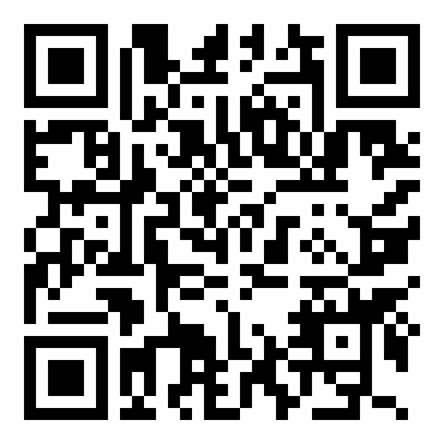
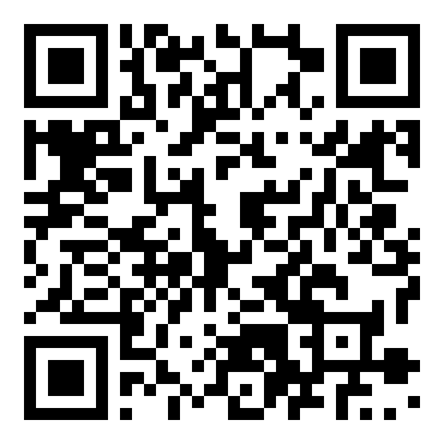
update: 下载版本更新至 v3.10.11

Changed region(s): [[0.0293, 0.0293, 0.9662, 0.9662]]

diff --git a/index.html b/index.html
@@ -20,7 +20,7 @@
   imagesrcset="assets/img/hero-green-800.webp 800w, assets/img/hero-green.webp 1600w"
   imagesizes="(max-width: 767px) calc(100vw - 32px), 640px">
 <script type="application/ld+json">
-{"@context":"https://schema.org","@type":"SoftwareApplication","name":"护花使者","operatingSystem":"Android 8.0+","applicationCategory":"MobileApplication","softwareVersion":"v3.10.10","fileSize":"85.9MB","downloadUrl":"http://121.199.75.235:8080/app/huhuashizhe_v3.10.10.apk","description":"护花使者把 1 kHz 飞控、5 MP 视觉和 39 类病虫害模型装进一架植保无人机。","offers":{"@type":"Offer","price":"0","priceCurrency":"CNY"}}
+{"@context":"https://schema.org","@type":"SoftwareApplication","name":"护花使者","operatingSystem":"Android 8.0+","applicationCategory":"MobileApplication","softwareVersion":"v3.10.11","fileSize":"85.9MB","downloadUrl":"http://121.199.75.235:8080/app/huhuashizhe_v3.10.11.apk","description":"护花使者把 1 kHz 飞控、5 MP 视觉和 39 类病虫害模型装进一架植保无人机。","offers":{"@type":"Offer","price":"0","priceCurrency":"CNY"}}
 </script>
 <style>
 :root {
@@ -490,7 +490,7 @@ html.js .result-card.is-in .result-bar i { width: var(--w); }
         </span>
         护花使者
       </a>
-      <span class="nav__ver">v3.10.10</span>
+      <span class="nav__ver">v3.10.11</span>
     </div>
     <nav class="nav__links" aria-label="主导航">
       <a class="nav__link" href="#problem">问题</a>
@@ -500,7 +500,7 @@ html.js .result-card.is-in .result-bar i { width: var(--w); }
       <a class="nav__link" href="#app">App</a>
       <a class="nav__link" href="#progress">进展</a>
     </nav>
-    <a class="btn btn--primary btn--small" href="http://121.199.75.235:8080/app/huhuashizhe_v3.10.10.apk" download>下载 App
+    <a class="btn btn--primary btn--small" href="http://121.199.75.235:8080/app/huhuashizhe_v3.10.11.apk" download>下载 App
       <svg viewBox="0 0 14 14" fill="none" aria-hidden="true"><path d="M7 1.5v7M4.2 6l2.8 3 2.8-3M2 11.5h10" stroke="currentColor" stroke-width="1.3" stroke-linecap="round" stroke-linejoin="round"/></svg>
     </a>
     <button class="nav__toggle" type="button" aria-expanded="false" aria-controls="mobile-menu" aria-label="打开菜单">
@@ -515,7 +515,7 @@ html.js .result-card.is-in .result-bar i { width: var(--w); }
       <a class="nav__link" href="#hardware" style="padding:12px 0;">硬件</a>
       <a class="nav__link" href="#app" style="padding:12px 0;">App</a>
       <a class="nav__link" href="#progress" style="padding:12px 0;">进展</a>
-      <a class="btn btn--primary" href="http://121.199.75.235:8080/app/huhuashizhe_v3.10.10.apk" download style="margin-top:12px;">下载 Android App</a>
+      <a class="btn btn--primary" href="http://121.199.75.235:8080/app/huhuashizhe_v3.10.11.apk" download style="margin-top:12px;">下载 Android App</a>
     </nav>
   </div>
 </header>
@@ -530,13 +530,13 @@ html.js .result-card.is-in .result-bar i { width: var(--w); }
         <h1 id="hero-h" data-reveal style="--d:.08s">让每一片叶子，<br><em>都被看见。</em></h1>
         <p class="hero__lead" data-reveal style="--d:.16s">护花使者把 1 kHz 飞控、5 MP 视觉和 39 类病虫害模型装进一架植保无人机。发现、判断、喷洒，在同一次飞行里完成。</p>
         <div class="hero__actions" data-reveal style="--d:.24s">
-          <a class="btn btn--primary" href="http://121.199.75.235:8080/app/huhuashizhe_v3.10.10.apk" download>下载 Android App
+          <a class="btn btn--primary" href="http://121.199.75.235:8080/app/huhuashizhe_v3.10.11.apk" download>下载 Android App
             <svg viewBox="0 0 14 14" fill="none" aria-hidden="true"><path d="M7 1.5v7M4.2 6l2.8 3 2.8-3M2 11.5h10" stroke="currentColor" stroke-width="1.3" stroke-linecap="round" stroke-linejoin="round"/></svg>
           </a>
           <a class="btn btn--ghost" href="#system">看它如何工作</a>
         </div>
         <div class="hero__meta" data-reveal style="--d:.3s">
-          <span>版本 <b>v3.10.10</b></span><span>大小 <b>85.9 MB</b></span><span>系统 <b>Android 8.0+</b></span>
+          <span>版本 <b>v3.10.11</b></span><span>大小 <b>85.9 MB</b></span><span>系统 <b>Android 8.0+</b></span>
         </div>
       </div>
       <div class="hero__visual" data-reveal style="--d:.18s">
@@ -551,9 +551,9 @@ html.js .result-card.is-in .result-bar i { width: var(--w); }
           <div class="download-card__head"><strong>下载 App</strong><span>ANDROID</span></div>
           <div class="download-card__body">
             <img class="download-card__qr" src="assets/img/download-qr.png" alt="扫码下载护花使者 Android App" width="444" height="444">
-            <p><b>扫码下载</b>v3.10.10 · 85.9 MB<br>同一 Wi-Fi 扫码可直接下载</p>
+            <p><b>扫码下载</b>v3.10.11 · 85.9 MB<br>同一 Wi-Fi 扫码可直接下载</p>
           </div>
-          <a class="btn btn--primary btn--small" href="http://121.199.75.235:8080/app/huhuashizhe_v3.10.10.apk" download>直接下载 APK</a>
+          <a class="btn btn--primary btn--small" href="http://121.199.75.235:8080/app/huhuashizhe_v3.10.11.apk" download>直接下载 APK</a>
           <p class="download-card__hint">iOS 内测中 · 暂未开放</p>
         </aside>
       </div>
@@ -739,8 +739,8 @@ html.js .result-card.is-in .result-bar i { width: var(--w); }
         </div>
         <div class="download-strip" data-reveal>
           <img src="assets/img/download-qr.png" alt="扫码下载护花使者 Android App" width="444" height="444" loading="lazy" decoding="async">
-          <div><b>扫码下载 Android 版</b><p>v3.10.10 · 85.9 MB · 同一 Wi-Fi 可直接下载</p></div>
-          <a class="btn btn--primary btn--small" href="http://121.199.75.235:8080/app/huhuashizhe_v3.10.10.apk" download>下载 APK</a>
+          <div><b>扫码下载 Android 版</b><p>v3.10.11 · 85.9 MB · 同一 Wi-Fi 可直接下载</p></div>
+          <a class="btn btn--primary btn--small" href="http://121.199.75.235:8080/app/huhuashizhe_v3.10.11.apk" download>下载 APK</a>
         </div>
       </div>
     </div>
@@ -790,9 +790,9 @@ html.js .result-card.is-in .result-bar i { width: var(--w); }
         <div class="download-card__head"><strong>下载 App</strong><span>ANDROID</span></div>
         <div class="download-card__body">
           <img class="download-card__qr" src="assets/img/download-qr.png" alt="扫码下载护花使者 Android App" width="444" height="444" loading="lazy" decoding="async">
-          <p><b>扫码下载</b>v3.10.10 · 85.9 MB<br>同一 Wi-Fi 扫码可直接下载</p>
+          <p><b>扫码下载</b>v3.10.11 · 85.9 MB<br>同一 Wi-Fi 扫码可直接下载</p>
         </div>
-        <a class="btn btn--primary btn--small" href="http://121.199.75.235:8080/app/huhuashizhe_v3.10.10.apk" download>直接下载 APK</a>
+        <a class="btn btn--primary btn--small" href="http://121.199.75.235:8080/app/huhuashizhe_v3.10.11.apk" download>直接下载 APK</a>
         <p class="download-card__hint">iOS 内测中 · 暂未开放</p>
       </div>
     </div>
@@ -809,8 +809,8 @@ html.js .result-card.is-in .result-bar i { width: var(--w); }
 </button>
 
 <div class="dl-bar" id="dl-bar">
-  <div class="dl-bar__info"><b>护花使者 v3.10.10</b><p>ANDROID 8.0+ · 85.9 MB</p></div>
-  <a class="btn btn--lime" href="http://121.199.75.235:8080/app/huhuashizhe_v3.10.10.apk" download>下载</a>
+  <div class="dl-bar__info"><b>护花使者 v3.10.11</b><p>ANDROID 8.0+ · 85.9 MB</p></div>
+  <a class="btn btn--lime" href="http://121.199.75.235:8080/app/huhuashizhe_v3.10.11.apk" download>下载</a>
 </div>
 
 <script>
